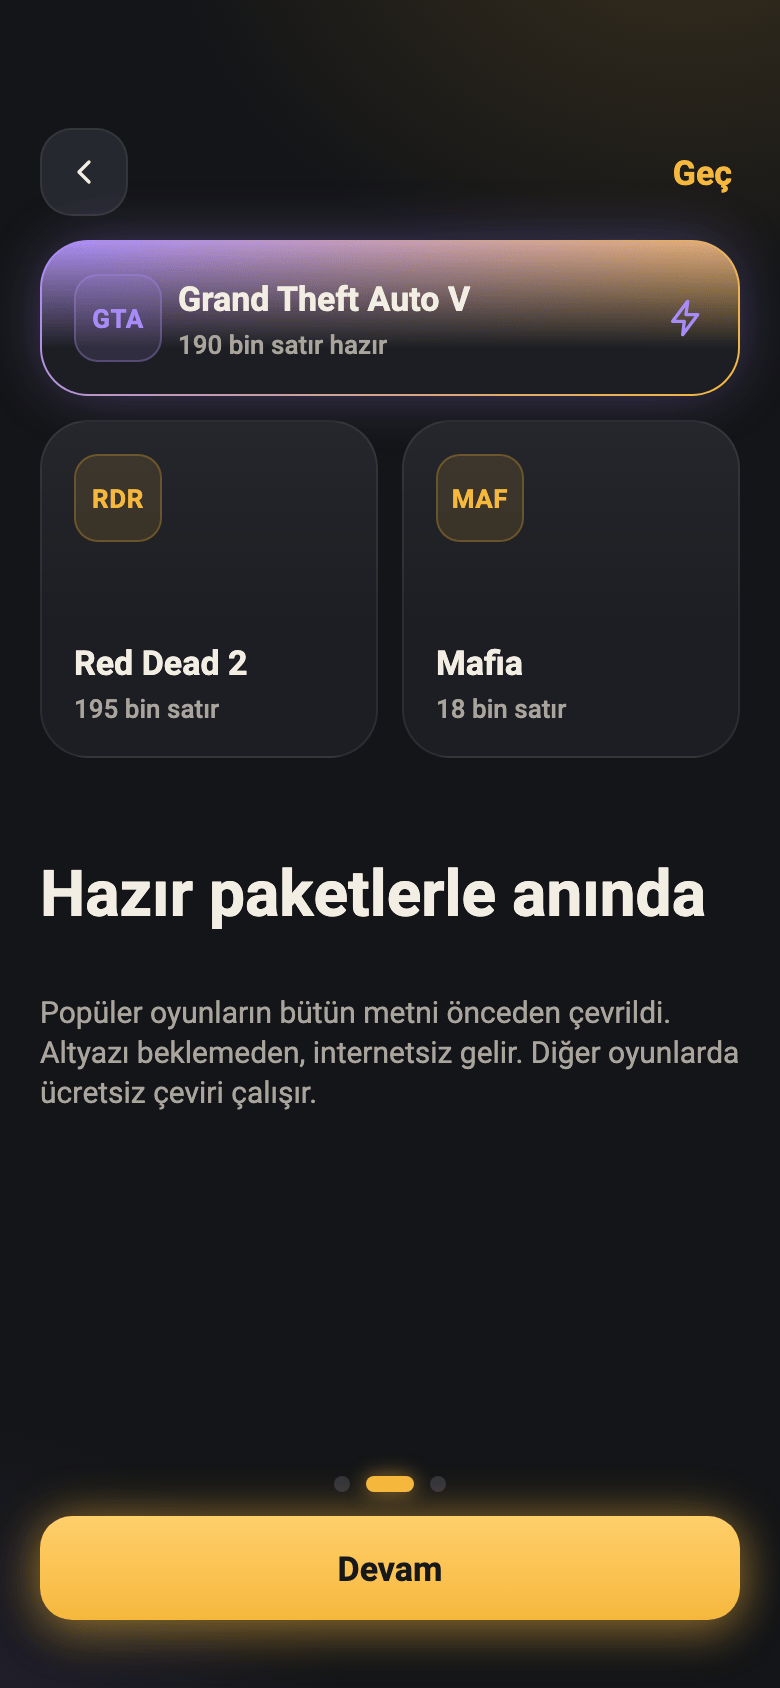
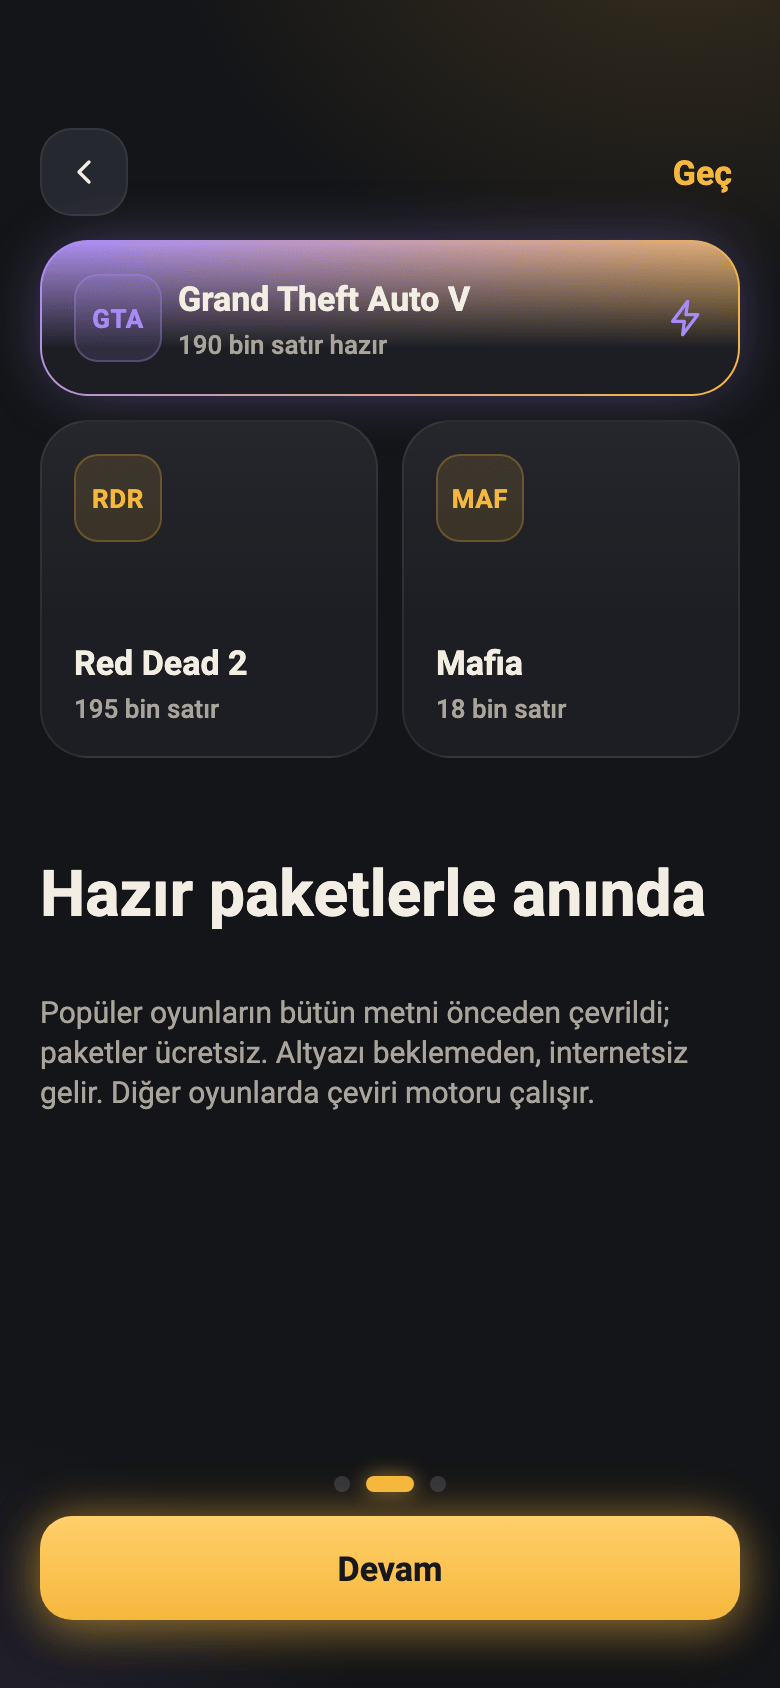
docs: telefon tasarımı her şey ücretsiz (paywall, abonelik, hesap ekranları kaldırıldı)
Telefon görüntüleri güncel panolardan yeniden üretildi: Kayıt, Paywall, Abonelik, Hesap ve kilitli paketler
kalktı; Profil yerine hesapsız Cihazlarım, Oyun paketleri ücretsiz liste. README bölümü yeniden numaralandı.

Changed region(s): [[0.0308, 0.6161, 0.9538, 0.6777]]

diff --git a/README.md b/README.md
@@ -36,19 +36,17 @@ https://github.com/user-attachments/assets/bb8569d8-115d-49c7-a772-da2d9e171c17
 | **Bilgisayar ekranındaki altyazı penceresi** | |
 | <img src="docs/screenshots/windows/pencere.png" width="420" alt="Altyazı penceresi tasarımı"> | |
 
-**Telefon uygulaması (yakında)** (tasarım; yatay altyazı ekranı:
-[10-altyazi.png](docs/screenshots/telefon/10-altyazi.png)):
+**Telefon uygulaması (yakında)** (tasarım; o da tamamen ücretsiz, hesap gerekmez; yatay altyazı ekranı:
+[09-altyazi.png](docs/screenshots/telefon/09-altyazi.png)):
 
 | | | | |
 |---|---|---|---|
-| <img src="docs/screenshots/telefon/01-karsilama-1.png" width="180" alt="Karşılama"> | <img src="docs/screenshots/telefon/02-karsilama-2.png" width="180" alt="Karşılama"> | <img src="docs/screenshots/telefon/03-kayit.png" width="180" alt="Kayıt"> | <img src="docs/screenshots/telefon/04-psn.png" width="180" alt="PSN girişi"> |
-| Karşılama | Karşılama | Kayıt | PSN girişi |
-| <img src="docs/screenshots/telefon/05-ps5.png" width="180" alt="PS5 eşleme"> | <img src="docs/screenshots/telefon/06-hedef.png" width="180" alt="Altyazı nerede"> | <img src="docs/screenshots/telefon/07-tur.png" width="180" alt="Kullanım turu"> | <img src="docs/screenshots/telefon/08-ana.png" width="180" alt="Ana ekran"> |
-| PS5 eşleme | Altyazı nerede | Kullanım turu | Ana ekran |
-| <img src="docs/screenshots/telefon/09-calisiyor.png" width="180" alt="Çeviri sürüyor"> | <img src="docs/screenshots/telefon/11-paketler-kilitli.png" width="180" alt="Paketler"> | <img src="docs/screenshots/telefon/12-paywall.png" width="180" alt="Pro"> | <img src="docs/screenshots/telefon/13-paketler.png" width="180" alt="Paketler (Pro)"> |
-| Çeviri sürüyor | Paketler | Pro | Paketler (Pro) |
-| <img src="docs/screenshots/telefon/14-profil.png" width="180" alt="Profil"> | <img src="docs/screenshots/telefon/15-hesap.png" width="180" alt="Hesap"> | <img src="docs/screenshots/telefon/16-abonelik.png" width="180" alt="Abonelik"> | <img src="docs/screenshots/telefon/17-ayarlar.png" width="180" alt="Ayarlar"> |
-| Profil | Hesap | Abonelik | Ayarlar |
+| <img src="docs/screenshots/telefon/01-karsilama-1.png" width="180" alt="Karşılama"> | <img src="docs/screenshots/telefon/02-karsilama-2.png" width="180" alt="Karşılama"> | <img src="docs/screenshots/telefon/03-psn.png" width="180" alt="PSN girişi"> | <img src="docs/screenshots/telefon/04-ps5.png" width="180" alt="PS5 eşleme"> |
+| Karşılama | Karşılama | PSN girişi | PS5 eşleme |
+| <img src="docs/screenshots/telefon/05-hedef.png" width="180" alt="Altyazı nerede"> | <img src="docs/screenshots/telefon/06-tur.png" width="180" alt="Kullanım turu"> | <img src="docs/screenshots/telefon/07-ana.png" width="180" alt="Ana ekran"> | <img src="docs/screenshots/telefon/08-calisiyor.png" width="180" alt="Çeviri sürüyor"> |
+| Altyazı nerede | Kullanım turu | Ana ekran | Çeviri sürüyor |
+| <img src="docs/screenshots/telefon/10-paketler.png" width="180" alt="Oyun paketleri"> | <img src="docs/screenshots/telefon/11-cihazlarim.png" width="180" alt="Cihazlarım"> | <img src="docs/screenshots/telefon/12-ayarlar.png" width="180" alt="Ayarlar"> | |
+| Oyun paketleri | Cihazlarım | Ayarlar | |
 
 ## İndir
 
@@ -205,7 +203,7 @@ all tested on real TVs. CouchSubs installs the TV app on all of them. Mac and Wi
 ([main screen](docs/screenshots/windows/ana.png), [setup](docs/screenshots/windows/kurulum.png),
 [translation](docs/screenshots/windows/ceviri.png), [game packs](docs/screenshots/windows/paketler.png),
 [subtitle window](docs/screenshots/windows/pencere.png)) and the design of the upcoming phone app
-([docs/screenshots/telefon](docs/screenshots/telefon)). On desktop, game packs are free.
+([docs/screenshots/telefon](docs/screenshots/telefon)). Everything is free, game packs included; no account is needed.
 
 **Setup:** open the app and follow the setup assistant. On the TV step it shows how to turn on developer mode for your
 TV brand and then installs the TV app by itself (LG: type the on-screen passphrase once; Samsung: sign in with a
